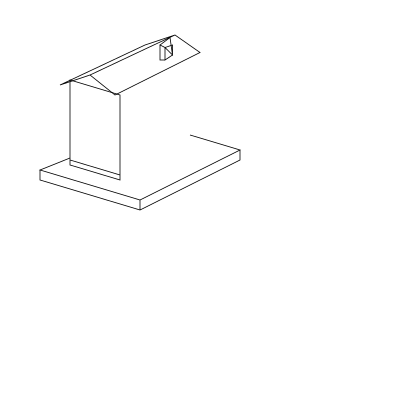
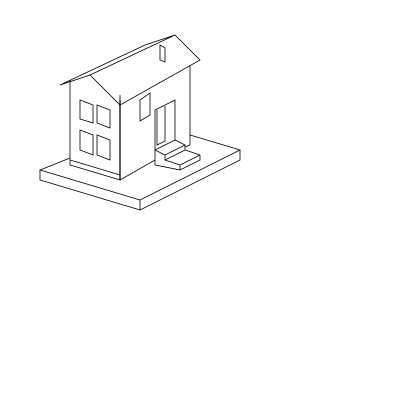
Optimizing outlook 1

Changed region(s): [[0.18, 0.09, 0.51, 0.45], [0.3, 0.42, 0.36, 0.45]]

diff --git a/main.py b/main.py
@@ -5,23 +5,6 @@ ctx = cairo.Context(surface)
 ctx.set_source_rgb(1,1,1)
 ctx.paint()
 
-# Wall structure
-ctx.move_to(120, 180)
-ctx.line_to(120, 95)
-ctx.line_to(70, 80)
-ctx.line_to(70, 165)
-ctx.close_path()
-
-ctx.move_to(120, 175)
-ctx.line_to(70, 160)
-ctx.line_to(70, 165)
-ctx.line_to(120, 180)
-ctx.close_path()
-
-ctx.set_source_rgb(0,0,0)
-ctx.set_line_width(0.8)
-ctx.stroke()
-
 # Ground structure
 ctx.move_to(70,158)
 ctx.line_to(40, 170)
@@ -42,50 +25,149 @@ ctx.set_source_rgb(0,0,0)
 ctx.set_line_width(0.8)
 ctx.stroke()
 
+# Left Wall structure
+ctx.move_to(120, 180)
+ctx.line_to(120, 95)
+
+ctx.move_to(70, 80)
+ctx.line_to(70, 165)
+
+
+ctx.move_to(120, 175)
+ctx.line_to(70, 160)
+ctx.line_to(70, 165)
+ctx.line_to(120, 180)
+ctx.close_path()
+
+ctx.set_source_rgb(0,0,0)
+ctx.set_line_width(0.8)
+ctx.stroke()
+
+# Adding Windows
+ctx.move_to(110,160)
+ctx.line_to(110,140)
+ctx.line_to(97, 135)
+ctx.line_to(97, 155)
+ctx.close_path()
+
+ctx.move_to(93, 155)
+ctx.line_to(93, 135)
+ctx.line_to(80, 130)
+ctx.line_to(80, 150)
+ctx.close_path()
+
+ctx.move_to(110, 128)
+ctx.line_to(110, 110)
+ctx.line_to(97, 105)
+ctx.line_to(97, 123)
+ctx.close_path()
+
+ctx.move_to(93, 105)
+ctx.line_to(80, 100)
+ctx.line_to(80, 119)
+ctx.line_to(93, 123)
+ctx.close_path()
+ctx.stroke()
+
 # Draw the back roof (angled for 3D effect)
 ctx.move_to(60, 85)
 ctx.line_to(145, 45)
 ctx.line_to(175, 35)
 ctx.line_to(90, 75)
 ctx.close_path()
-ctx.close_path()
 
 # Draw the front roof (angled for 3D effect)
-ctx.move_to(175, 35)
-ctx.line_to(200, 52.5)
-ctx.line_to(115, 95)
-ctx.line_to(90, 75)
+ctx.move_to(120, 105)
+ctx.line_to(200, 60)
 ctx.line_to(175, 35)
+ctx.line_to(90, 75)
 ctx.close_path()
+
 
 # Chimney
 #front part
 ctx.move_to(160, 45)
 ctx.line_to(160, 60)
-ctx.line_to(165, 60)
-ctx.line_to(165, 47.5)
+ctx.line_to(165, 62)
+ctx.line_to(165, 48)
 ctx.close_path()
 
 
 #lateral part
-ctx.move_to(165, 47.5)
-ctx.line_to(165, 60)
-ctx.line_to(172.5, 55)
-ctx.line_to(172.5, 45)
-ctx.close_path()
+# ctx.move_to(165, 47.5)
+# ctx.line_to(165, 60)
+# ctx.line_to(172.5, 55)
+# ctx.line_to(172.5, 45)
+# ctx.close_path()
+ctx.move_to(165, 62)
 
 
-#top part
-ctx.move_to(160, 45)
-ctx.line_to(165, 47.5)
-ctx.line_to(172.5, 55)
-ctx.line_to(170, 37.5)
-ctx.line_to(160, 45)
-ctx.close_path()
+# #top part
+# ctx.move_to(160, 45)
+# ctx.line_to(165, 47.5)
+# ctx.line_to(172.5, 55)
+# ctx.line_to(170, 37.5)
+# ctx.line_to(160, 45)
+# ctx.close_path()
 
 
 ctx.set_line_width(0.8)
 ctx.set_source_rgb(0,0,0)
+ctx.stroke()
+
+# Right Wall
+ctx.move_to(120, 180)
+ctx.line_to(120, 100)
+ctx.move_to(190, 65)
+ctx.line_to(190, 145)
+# ctx.line_to(147, 186)
+# ctx.close_path()
+
+ctx.move_to(155, 150)
+ctx.line_to(175, 140)
+ctx.line_to(185, 145)
+ctx.line_to(165, 155)
+ctx.close_path()
+
+ctx.move_to(155, 150)
+ctx.line_to(155, 165)
+ctx.line_to(180, 170)
+ctx.line_to(200, 160)
+ctx.line_to(200, 155)
+ctx.line_to(185, 150)
+ctx.line_to(165, 160)
+ctx.line_to(180, 165)
+ctx.line_to(180, 170)
+ctx.move_to(180, 165)
+ctx.line_to(200, 155)
+ctx.move_to(165, 160)
+ctx.line_to(165, 155)
+ctx.move_to(185, 150)
+ctx.line_to(185, 145)
+
+ctx.move_to(120, 180)
+ctx.line_to(155, 160)
+ctx.move_to(190, 145)
+ctx.line_to(185, 147)
+
+ctx.move_to(155, 150)
+ctx.line_to(155, 110)
+ctx.line_to(175, 100)
+ctx.line_to(175, 140)
+
+ctx.move_to(157, 110)
+ctx.line_to(157, 145)
+ctx.line_to(165, 141)
+ctx.line_to(165, 106)
+
+ctx.move_to(150, 115)
+ctx.line_to(150, 93)
+ctx.line_to(140, 100)
+ctx.line_to(140, 121)
+ctx.close_path()
+
+ctx.set_source_rgb(0,0,0)
+ctx.set_line_width(0.8)
 ctx.stroke()
 
 surface.write_to_png('house.png')

diff --git a/left_wall.py b/left_wall.py
@@ -22,32 +22,7 @@ ctx.set_source_rgb(0,0,0)
 ctx.set_line_width(0.8)
 ctx.stroke()
 
-# Adding Windows
-ctx.move_to(110,160)
-ctx.line_to(110,140)
-ctx.line_to(97, 135)
-ctx.line_to(97, 155)
-ctx.close_path()
 
-ctx.move_to(93, 155)
-ctx.line_to(93, 135)
-ctx.line_to(80, 130)
-ctx.line_to(80, 150)
-ctx.close_path()
-
-ctx.move_to(110, 128)
-ctx.line_to(110, 110)
-ctx.line_to(97, 105)
-ctx.line_to(97, 123)
-ctx.close_path()
-
-ctx.move_to(93, 105)
-ctx.line_to(80, 100)
-ctx.line_to(80, 119)
-ctx.line_to(93, 123)
-ctx.close_path()
-
-ctx.stroke()
 
 
 
